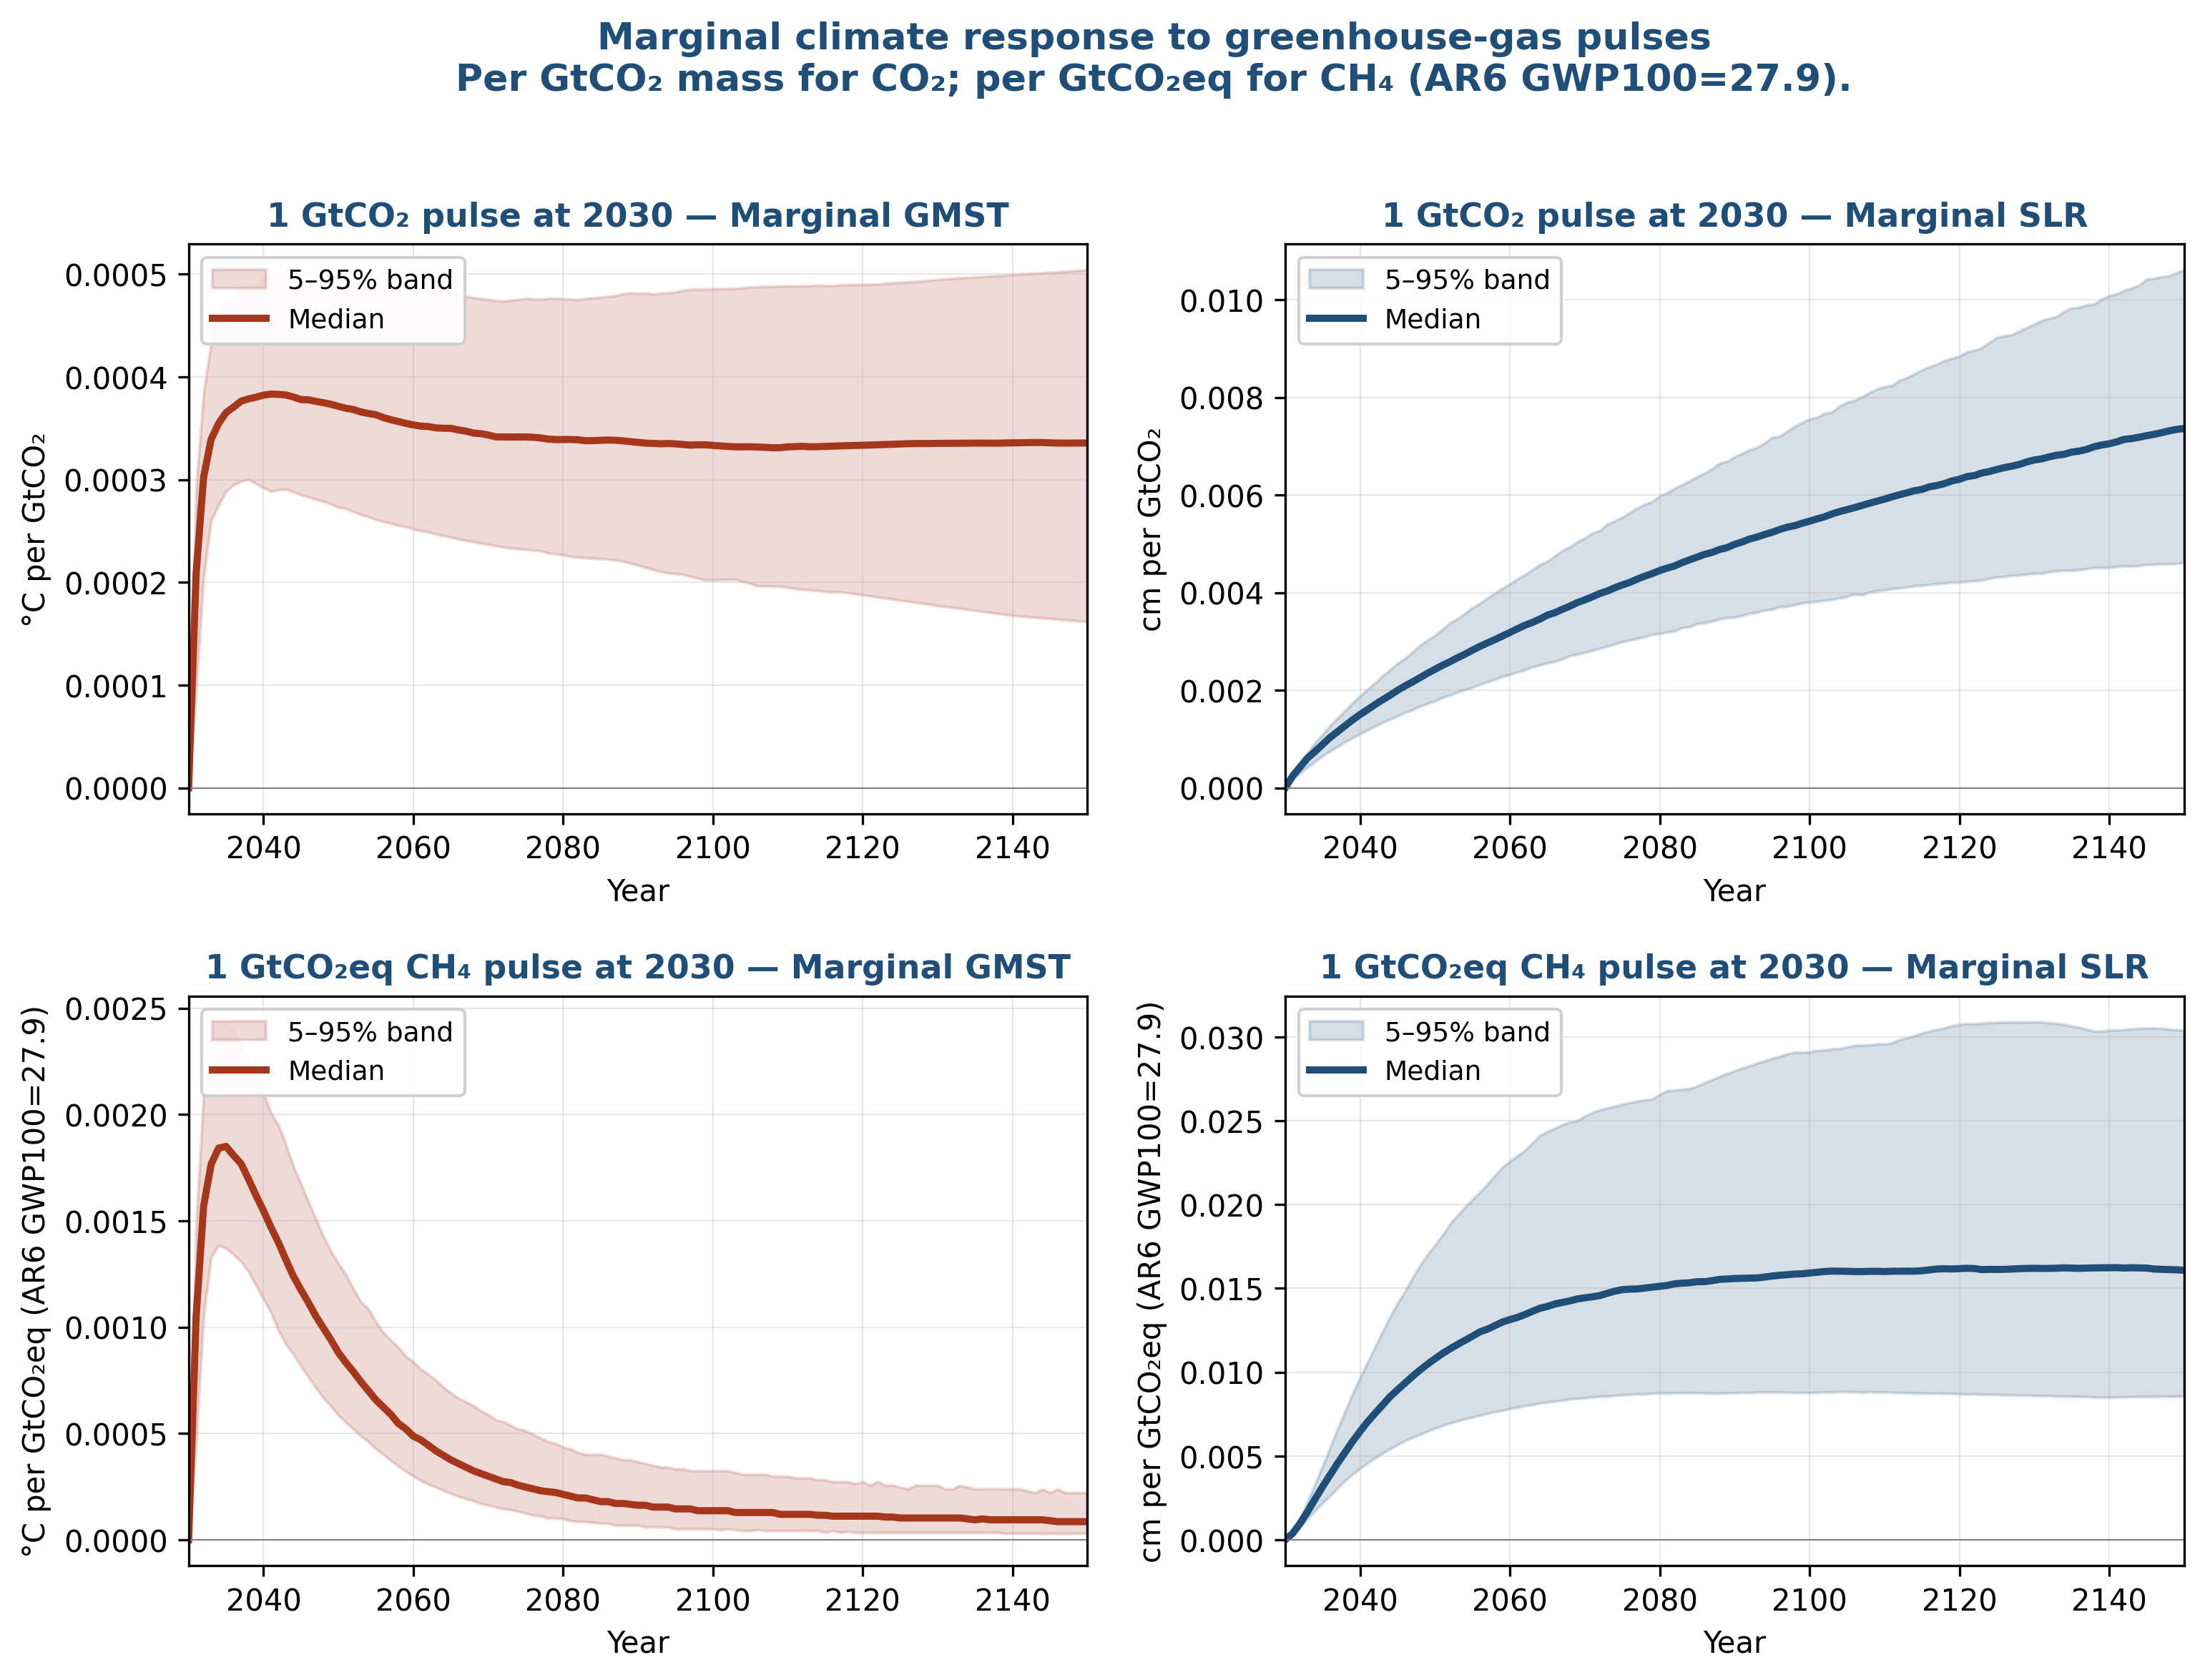
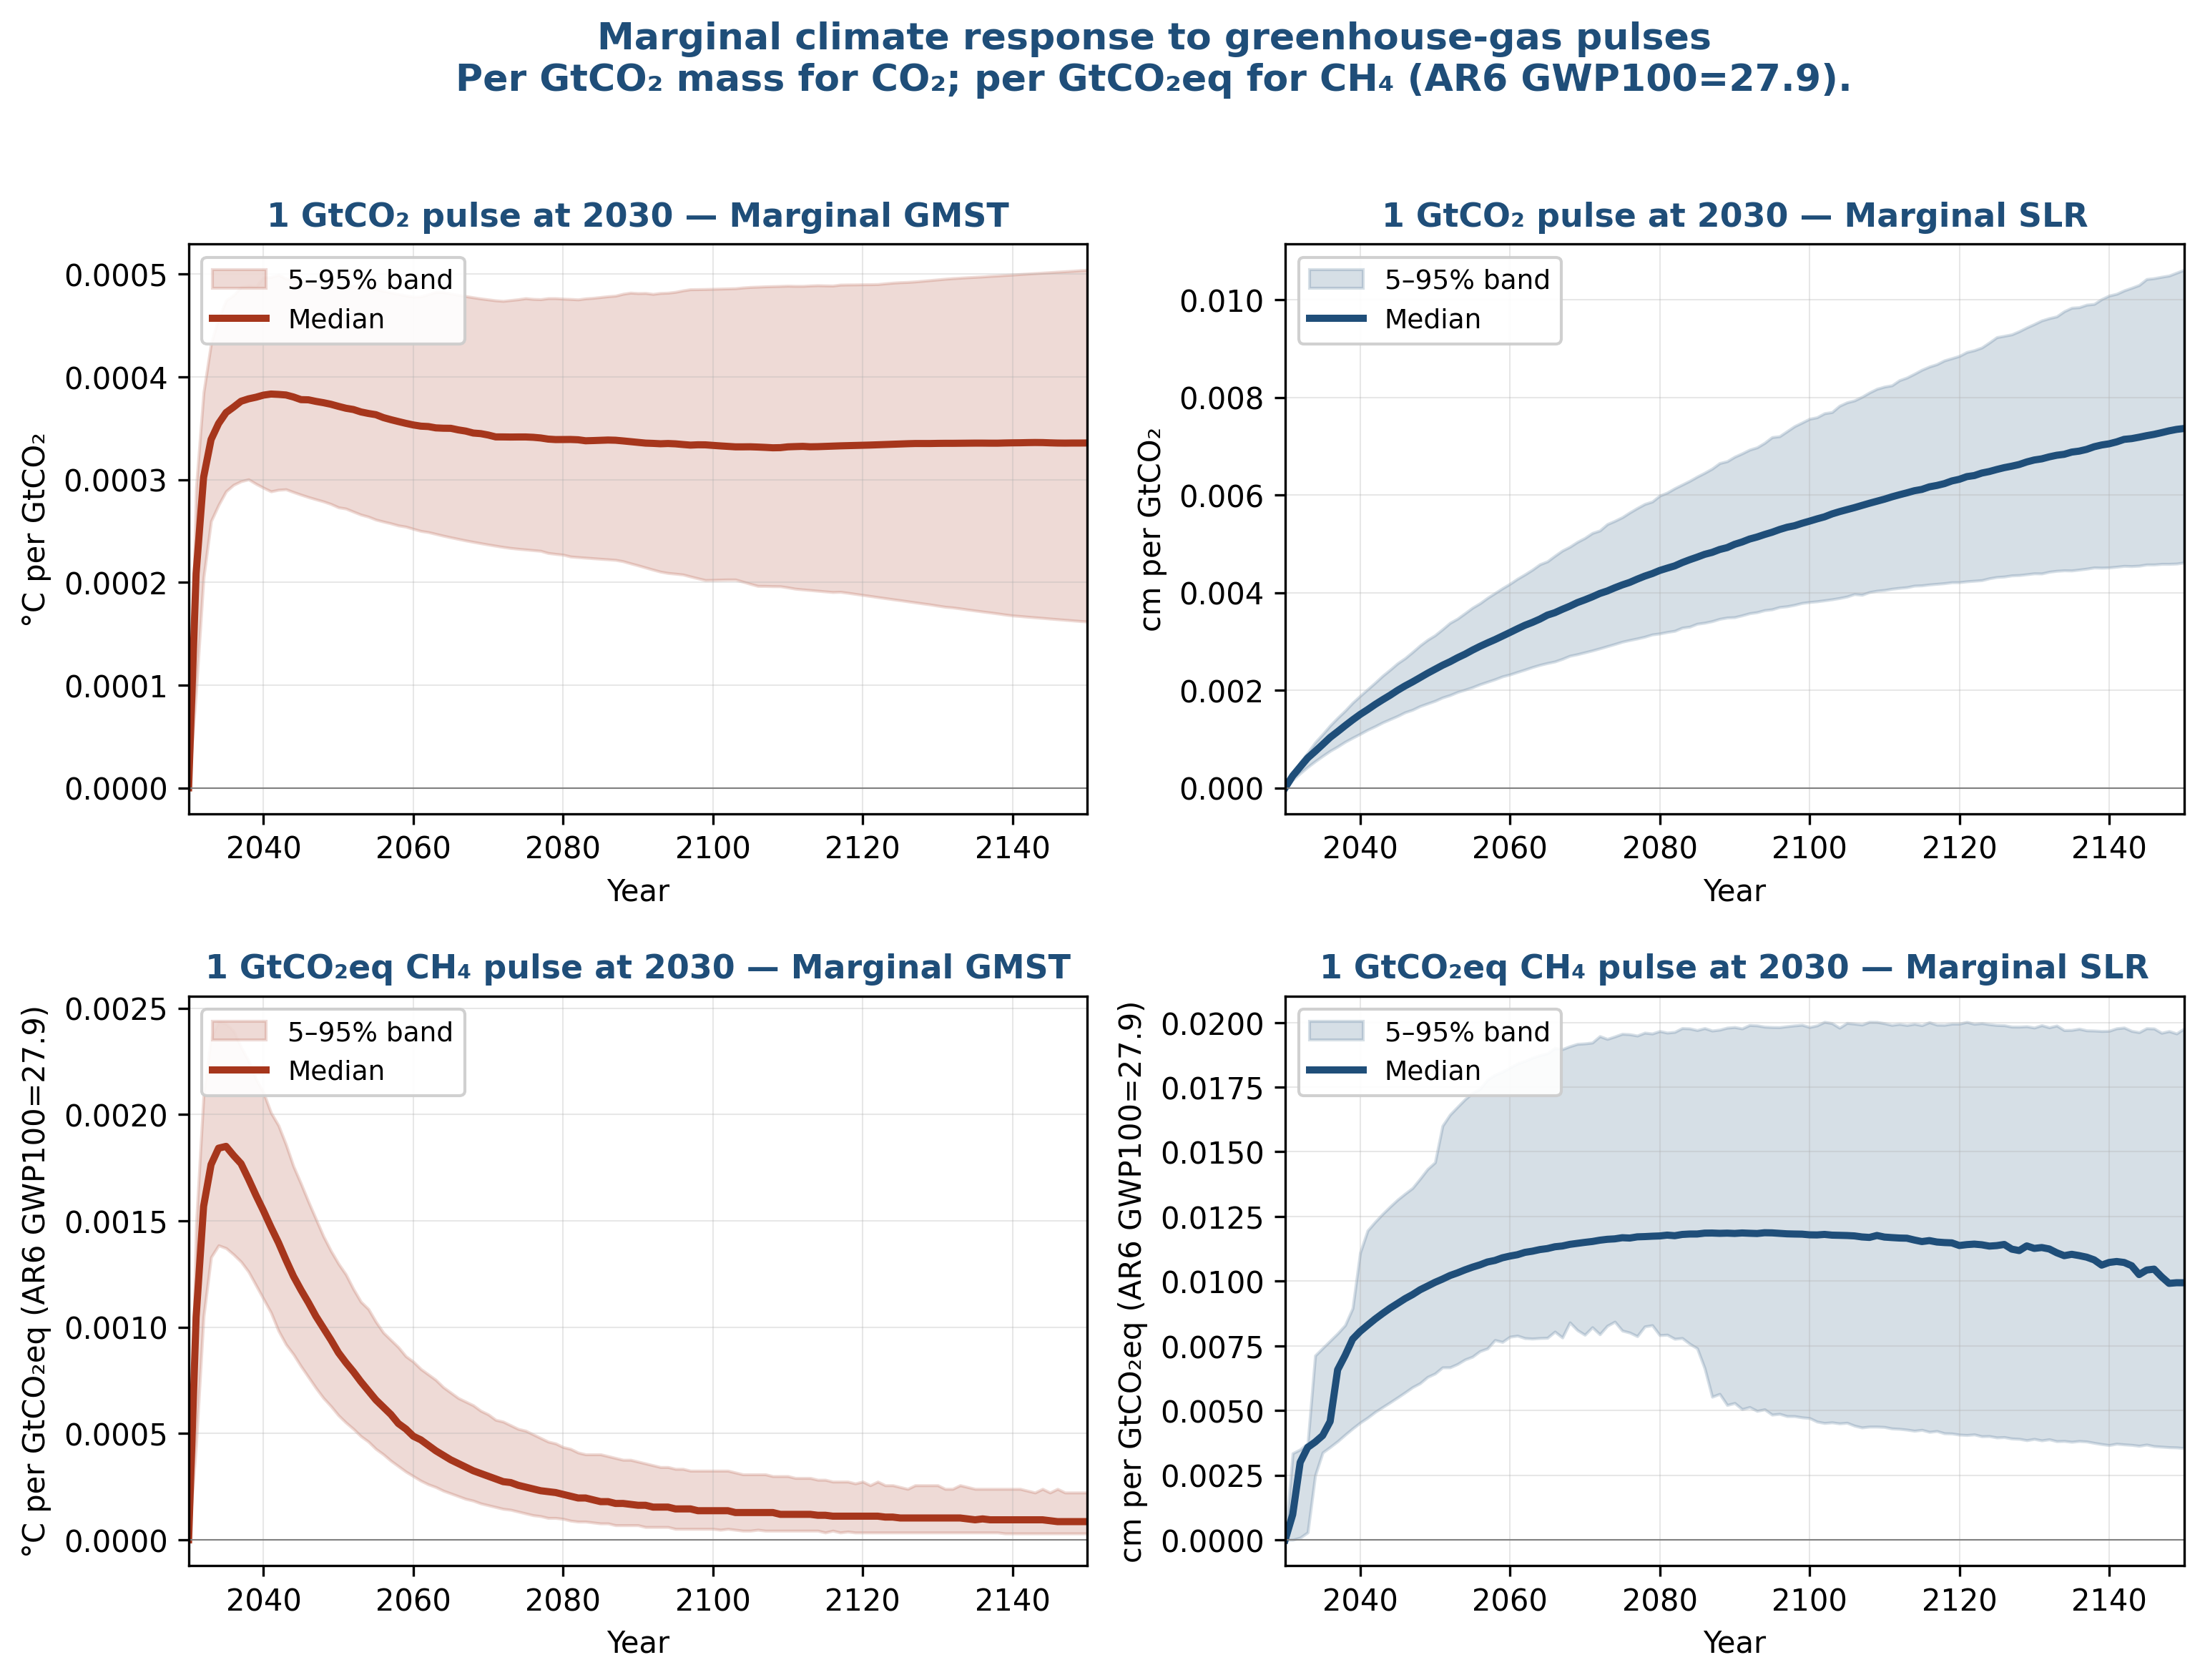
Update CH4 SLR panel in pulse_responses_clean to v1.4.5
Marcus caught that the CH4 SLR panel was still reading a v1.4.1-era
summary (ch4_pulse_slr_summary_1p0tg.csv, May 19) while the CO2 SLR panel
had already been migrated to v1.4.5.  Result: CH4 looked anomalously
high relative to CO2 (0.016 vs 0.0074 cm/GtCO2(eq) at 2150) because of
the same pre-PR#93 GIS pathology that inflated v1.4.1 CO2 sensitivity.

Fixed:

- new python/scripts/extract_lhs10k_ch4_smallpulse_summary.py builds the
  CH4 analog of the CO2 small-pulse summary, reading the v1.4.5 LHS-10k
  baseline + 0.01-Tg-CH4 pulse arm (post-PR#93 BRICK, importance-weighted)
  and writing ch4_pulse_slr_summary_lhs10k_0p01tg.csv.
- pulse_responses_clean.py's CH4 SLR panel now reads that new summary.

Headline CH4 SLR values per GtCO2eq (AR6 GWP100=27.9):
  Year   v1.4.1-era (legacy)   v1.4.5 (new)   Δ
  2050   0.0108                0.0100         -0.0008
  2100   0.0159                0.0118         -0.0041
  2150   0.0161                0.0099         -0.0062

CH4 (v1.4.5) at 2150 is now 1.3x CO2 (v1.4.5) — physically sensible
(CH4's short atmospheric lifetime puts its warming pulse earlier in
time so ice integrates more of it per GtCO2eq at long horizons).
Previously the v1.4.1 CH4 number was 2.2x the v1.4.5 CO2 number — an
artifact of mixing calibrations across panels.

The CH4 GMST panel still reads v1.4.1-era ch4_pulse_gmst_summary.csv.
Per the earlier Test 1 result (FaIR GMST pulse response v1.4.1 vs
v1.4.5 agrees to ~1-5%), this panel won't change materially under a
[…]

Changed region(s): [[0.4982, 0.5905, 0.9964, 0.9323]]

diff --git a/python/scripts/extract_lhs10k_ch4_smallpulse_summary.py b/python/scripts/extract_lhs10k_ch4_smallpulse_summary.py
@@ -1,0 +1,110 @@
+"""
+extract_lhs10k_ch4_smallpulse_summary.py
+========================================
+
+CH₄ analog of extract_lhs10k_smallpulse_summary.py: build the
+co2_pulse_slr_summary-style per-year envelope CSV for the v1.4.5
+LHS-10k paired (baseline, 0.01-Tg CH₄ pulse) ensemble.
+
+Output schema matches the legacy ch4_pulse_slr_summary_<size>tg.csv used
+by python/scripts/substack/pulse_responses_clean.py:
+  year, mean, p5, p50, p95   (cm per Tg CH₄, Wong-weighted)
+
+The downstream pulse_responses_clean.py panel scales these by
+TG_CH4_PER_GTCO2EQ = 1000 / 27.9 = 35.84 (AR6 WG1 GWP100, midpoint
+between fossil and non-fossil) to produce cm per GtCO₂eq.
+
+FaIR v1.4.5's 'CH4' species input_unit is "Mt CH4 / yr". The v1.4.5 cube
+builder applies `--pulse-size 0.01` to that emission grid, which is
+0.01 × 1000 = 10 Mt CH4 = 0.01 Tg CH4 pulse. Per-Tg-CH4 = ΔSLR / 0.01.
+
+Companion to the CO₂ extract.
+"""
+from __future__ import annotations
+from pathlib import Path
+import numpy as np
+import pandas as pd
+
+ROOT = Path(__file__).resolve().parents[2]
+OUT  = ROOT / "outputs" / "substack"
+OUT.mkdir(parents=True, exist_ok=True)
+
+# v1.4.5 inputs (slim, post-PR#93 BRICK + 10k-RFF LHS).
+BASELINE_CSV = ROOT / "outputs" / "brick_v145_slim" / "brick_lhs10k_baseline_to2300_weighted.csv"
+PULSE_CSV    = ROOT / "outputs" / "brick_v145_slim" / "brick_lhs10k_pulse_ch4_pos_001tg_to2300.csv"
+OUT_CSV      = OUT / "ch4_pulse_slr_summary_lhs10k_0p01tg.csv"
+
+# FaIR v1.4.5 'CH4' input unit is Tg CH4/yr.  See
+# ~/.claude/skills/climate-modeling §"Unit checks" for the corresponding
+# CO2-vs-GtC discussion; CH4 has its own subtlety (Mt vs Tg).
+PULSE_SIZE_TG_CH4 = 0.01    # FaIR v1.4.5 CH4 input unit
+PLOT_YEARS        = (2025, 2300)
+
+
+def w_quantile(v, w, q):
+    mask = np.isfinite(v) & (w >= 0)
+    vv, ww = v[mask], w[mask]
+    if ww.sum() <= 0 or len(vv) == 0:
+        return float("nan")
+    order = np.argsort(vv)
+    vs, ws = vv[order], ww[order]
+    cw = np.cumsum(ws)
+    return float(vs[min(np.searchsorted(cw, q * cw[-1]), len(vs) - 1)])
+
+
+def main():
+    print(f"loading baseline + 0.01-Tg-CH4 pulse weighted CSVs")
+    b = pd.read_csv(BASELINE_CSV)
+    p = pd.read_csv(PULSE_CSV)
+    keys = ["rff_idx", "fair_cfg_idx", "seed_idx", "post_idx"]
+    b = b.sort_values(keys).reset_index(drop=True)
+    p = p.sort_values(keys).reset_index(drop=True)
+    assert (b[keys].values == p[keys].values).all(), "pairing key mismatch"
+    print(f"  paired on {len(b)} tuples")
+
+    year_cols = [c for c in b.columns if c.isdigit()]
+    years     = np.array([int(c) for c in year_cols])
+    Yb        = b[year_cols].to_numpy(np.float64)
+    Yp        = p[year_cols].to_numpy(np.float64)
+    M         = (Yp - Yb) / PULSE_SIZE_TG_CH4                  # per-Tg-CH4 marginal
+    w         = b["w_norm"].to_numpy()
+
+    rows = []
+    y_lo, y_hi = PLOT_YEARS
+    for j, y in enumerate(years):
+        if not (y_lo <= y <= y_hi):
+            continue
+        v = M[:, j]
+        rows.append({
+            "year": int(y),
+            "mean": float(np.average(v, weights=w)),
+            "p5":   w_quantile(v, w, 0.05),
+            "p50":  w_quantile(v, w, 0.50),
+            "p95":  w_quantile(v, w, 0.95),
+        })
+
+    df = pd.DataFrame(rows)
+    df.to_csv(OUT_CSV, index=False)
+    print(f"wrote {OUT_CSV}  ({len(df)} years)")
+
+    print("\nKey small-pulse CH4-SLR sensitivities (cm per Tg-CH4, Wong-weighted):")
+    for y in (2030, 2050, 2075, 2100, 2125, 2150):
+        r = df[df.year == y]
+        if len(r):
+            r0 = r.iloc[0]
+            print(f"  {y}: median={r0.p50:+.4f}  mean={r0['mean']:+.4f}  "
+                  f"p5={r0.p5:+.4f}  p95={r0.p95:+.4f}")
+
+    # Convert to per-GtCO2eq using AR6 GWP100 = 27.9 for a quick sanity check.
+    # (downstream pulse_responses_clean.py applies the conversion itself.)
+    TG_CH4_PER_GTCO2EQ = 1000.0 / 27.9
+    print(f"\nAs cm per GtCO₂eq (× {TG_CH4_PER_GTCO2EQ:.2f} via AR6 GWP100 = 27.9):")
+    for y in (2050, 2100, 2125, 2150):
+        r = df[df.year == y]
+        if len(r):
+            r0 = r.iloc[0]
+            print(f"  {y}: median={r0.p50 * TG_CH4_PER_GTCO2EQ:+.4f}  cm/GtCO₂eq")
+
+
+if __name__ == "__main__":
+    main()

diff --git a/python/scripts/substack/pulse_responses_clean.py b/python/scripts/substack/pulse_responses_clean.py
@@ -68,7 +68,11 @@ PANELS = [
         "Marginal GMST",
         f"°C per GtCO₂eq (AR6 GWP100={GWP100_CH4:.1f})",
         TG_CH4_PER_GTCO2EQ,               "#A6361C", 1, 0),
-    ("ch4_pulse_slr_summary_1p0tg.csv",   "1 GtCO₂eq CH₄ pulse at 2030",
+    # v1.4.5 CH4 small-pulse summary (0.01-Tg CH4 pulse, post-PR#93 BRICK,
+    # 10k-RFF LHS). Replaces the v1.4.1-era 1-Tg paired-RFF summary
+    # (ch4_pulse_slr_summary_1p0tg.csv) so CH4 and CO2 panels are now both on
+    # the same v1.4.5 + post-PR#93 calibration footing.
+    ("ch4_pulse_slr_summary_lhs10k_0p01tg.csv", "1 GtCO₂eq CH₄ pulse at 2030",
         "Marginal SLR",
         f"cm per GtCO₂eq (AR6 GWP100={GWP100_CH4:.1f})",
         TG_CH4_PER_GTCO2EQ,               "#1F4E79", 1, 1),